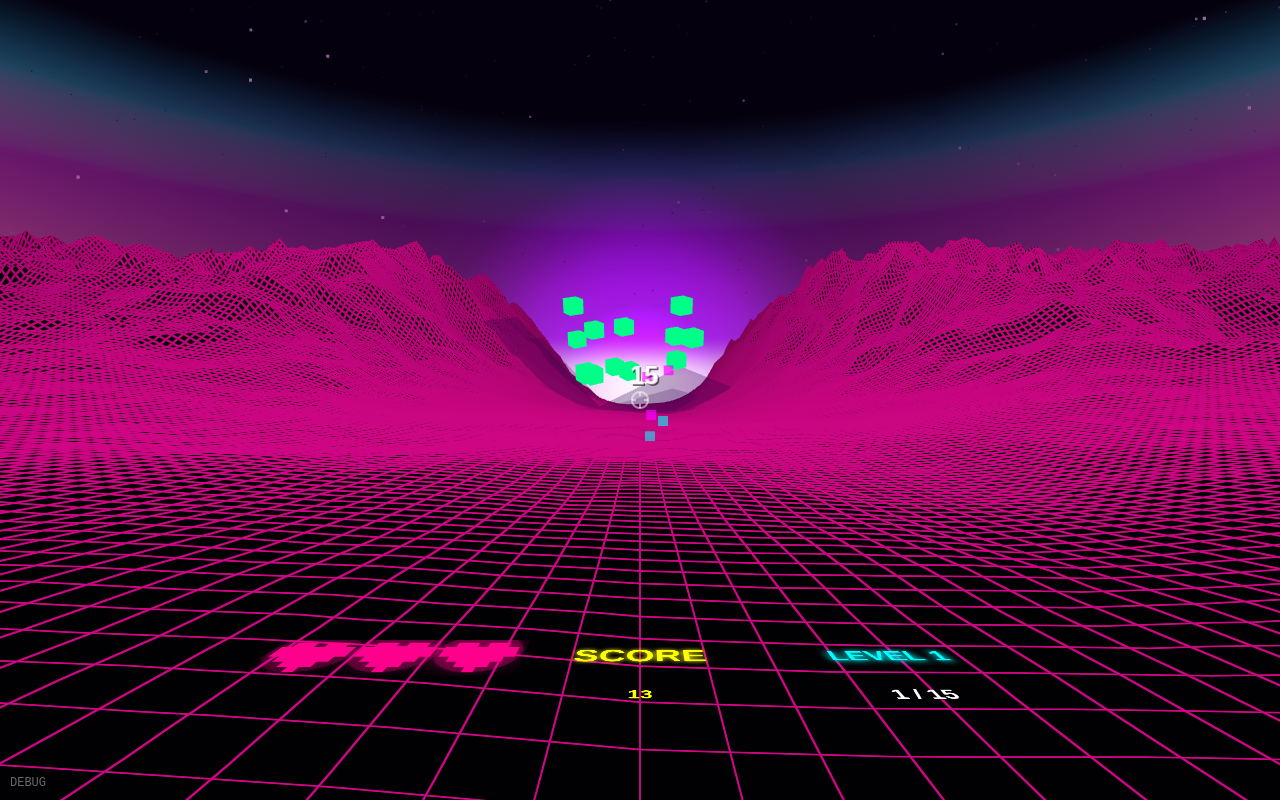
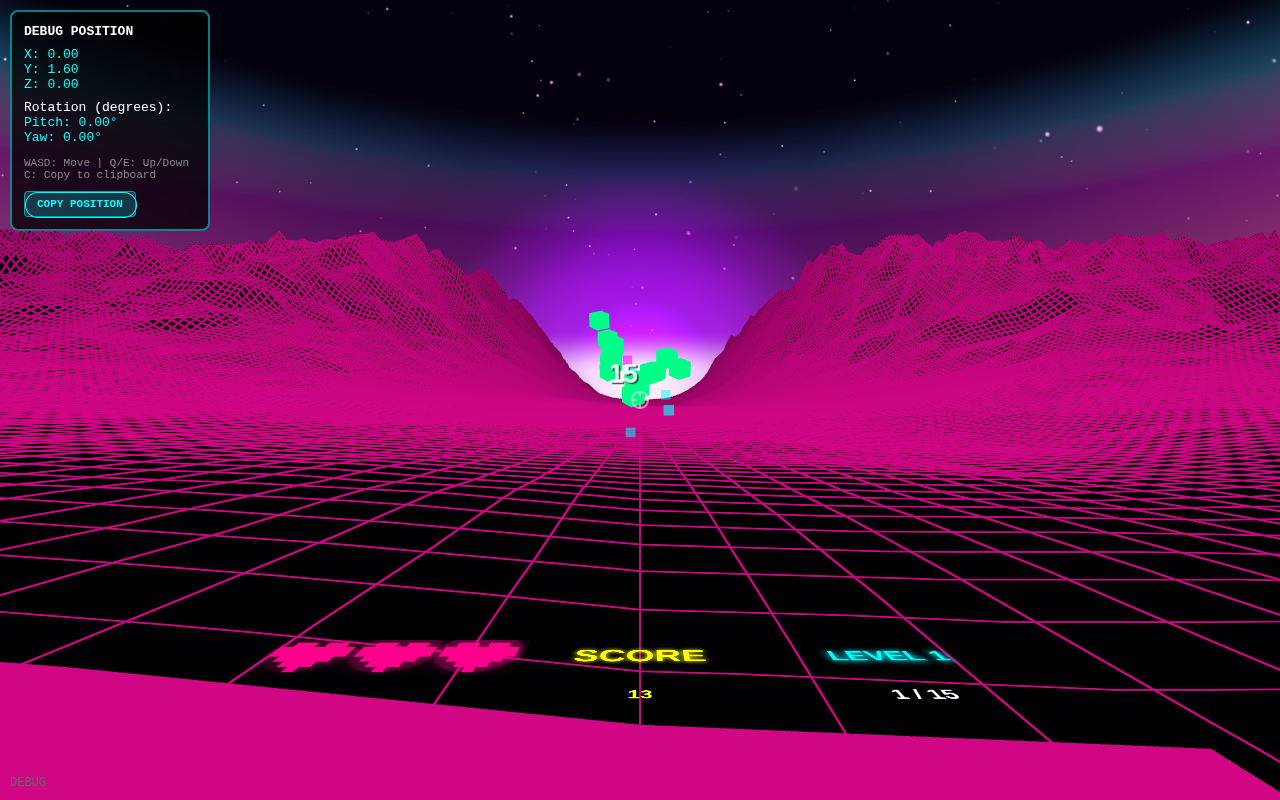
fix: biome corrections - heights, rotation, sizes, lighting

diff --git a/main.js b/main.js
@@ -8950,8 +8950,8 @@ function buildSynthwaveValleyScene(group) {
   // version should behave like a stable biome backdrop.
   group.userData.update = null;
 
-  // Synthwave floor HUD height: group.position.y = 0.10
-  group.position.set(0, 0.10, 0);
+  // Synthwave floor HUD height: group.position.y = 6.82
+  group.position.set(0, 6.82, 0);
 
   // Rotate so player faces sun
   group.rotation.y = 0;
@@ -9241,8 +9241,8 @@ function buildDesertNightScene(group) {
   moonGroup.position.set(-45, 35, -60);
   group.add(moonGroup);
 
-  // Desert floor HUD height: Y = -0.20, rotated 25 degrees (+0.436 rad)
-  group.rotation.y = 0.436; // yaw: 25 degrees
+  // Desert floor HUD height: Y = -0.20, rotated 25 degrees (-0.436 rad)
+  group.rotation.y = -0.436; // yaw: -25 degrees
   group.position.set(-7.12, -0.20, -9.82);
 
   // === ANIMATION UPDATE ===

diff --git a/index.html b/index.html
@@ -182,7 +182,7 @@
       </div>
     </div>
     
-    <p id="version-text" style="font-size: 1em; opacity: 0.6; margin-top: 12px;">v2026.03.16.2227</p>
+    <p id="version-text" style="font-size: 1em; opacity: 0.6; margin-top: 12px;">v2026.03.16.2248</p>
   </div>
 
   <!-- Fallback if WebXR is not available -->
@@ -246,7 +246,7 @@
   <script type="module" src="main.js?v=20260316-1516"></script>
   <script>
     (function() {
-      const GAME_VERSION = 'v2026.03.16.2227';
+      const GAME_VERSION = 'v2026.03.16.2248';
       document.title = GAME_VERSION;
       const versionEl = document.getElementById('version-text');
       if (versionEl) versionEl.textContent = GAME_VERSION;
